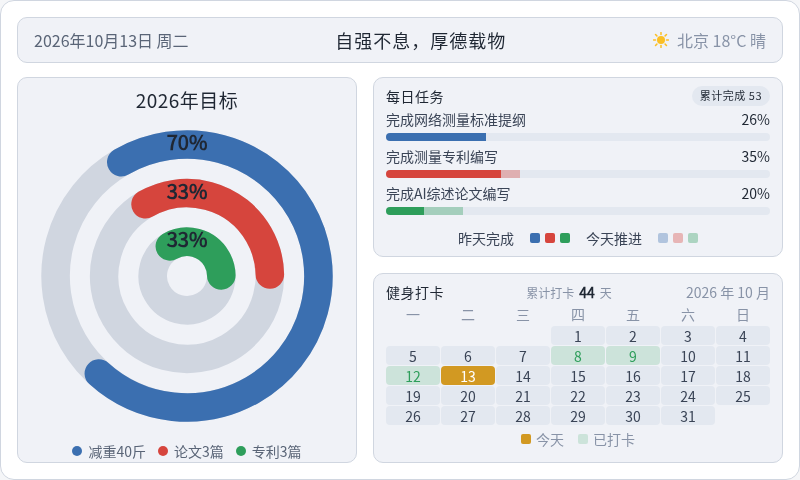
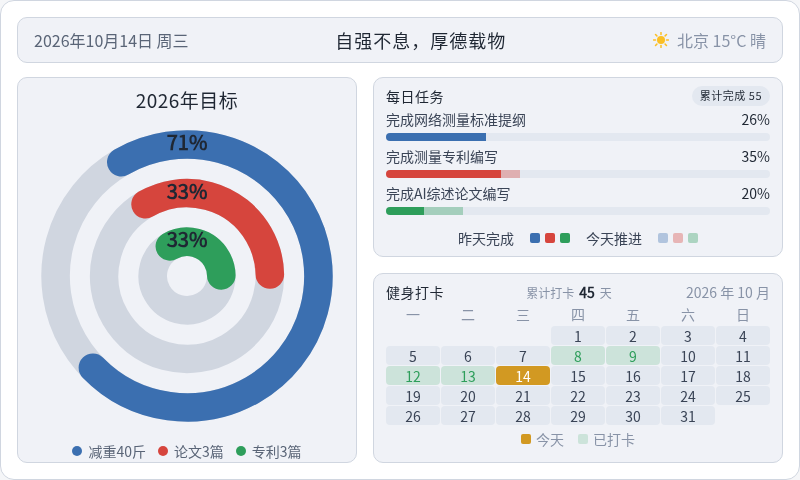
chore: 每日看板刷新 2026-10-14

diff --git a/output/dashboard/dashboard.html b/output/dashboard/dashboard.html
@@ -185,11 +185,11 @@
 <body>
   <div class="dash">
     <div class="topbar">
-      <div class="tb-date" id="tbDate">2026年10月13日 周二</div>
+      <div class="tb-date" id="tbDate">2026年10月14日 周三</div>
       <div class="tb-slogan">自强不息，厚德载物</div>
       <div class="tb-weather">
         <svg width="16" height="16" viewBox="0 0 16 16" aria-hidden="true"><circle cx="8" cy="8" r="4" fill="#fbbf24"/><g stroke="#fbbf24" stroke-width="1.5" stroke-linecap="round"><line x1="8" y1="0.5" x2="8" y2="2.5"/><line x1="8" y1="13.5" x2="8" y2="15.5"/><line x1="0.5" y1="8" x2="2.5" y2="8"/><line x1="13.5" y1="8" x2="15.5" y2="8"/><line x1="2.5" y1="2.5" x2="3.9" y2="3.9"/><line x1="12.1" y1="12.1" x2="13.5" y2="13.5"/><line x1="13.5" y1="2.5" x2="12.1" y2="3.9"/><line x1="3.9" y1="12.1" x2="2.5" y2="13.5"/></g></svg>
-        <span>北京 18°C 晴</span>
+        <span>北京 15°C 晴</span>
       </div>
     </div>
     <div class="content">
@@ -200,9 +200,9 @@
           <svg viewBox="0 0 210 210" width="300" height="300" role="img" aria-label="三环进度仪表盘">
             <title>2026年目标三环进度</title>
             <g transform="rotate(-120 105 105)">
-              <circle cx="105" cy="105" r="92" fill="none" stroke="#d0d6e0" stroke-width="20"/><circle cx="105" cy="105" r="92" fill="none" stroke="#3b6fb0" stroke-width="20" stroke-linecap="round" stroke-dasharray="404.64 578.05"/><circle cx="105" cy="105" r="58" fill="none" stroke="#d0d6e0" stroke-width="20"/><circle cx="105" cy="105" r="58" fill="none" stroke="#d6453d" stroke-width="20" stroke-linecap="round" stroke-dasharray="120.26 364.42"/><circle cx="105" cy="105" r="24" fill="none" stroke="#d0d6e0" stroke-width="20"/><circle cx="105" cy="105" r="24" fill="none" stroke="#2e9e5b" stroke-width="20" stroke-linecap="round" stroke-dasharray="49.76 150.80"/>
+              <circle cx="105" cy="105" r="92" fill="none" stroke="#d0d6e0" stroke-width="20"/><circle cx="105" cy="105" r="92" fill="none" stroke="#3b6fb0" stroke-width="20" stroke-linecap="round" stroke-dasharray="410.42 578.05"/><circle cx="105" cy="105" r="58" fill="none" stroke="#d0d6e0" stroke-width="20"/><circle cx="105" cy="105" r="58" fill="none" stroke="#d6453d" stroke-width="20" stroke-linecap="round" stroke-dasharray="120.26 364.42"/><circle cx="105" cy="105" r="24" fill="none" stroke="#d0d6e0" stroke-width="20"/><circle cx="105" cy="105" r="24" fill="none" stroke="#2e9e5b" stroke-width="20" stroke-linecap="round" stroke-dasharray="49.76 150.80"/>
             </g>
-            <text x="105" y="13" text-anchor="middle" dominant-baseline="middle" fill="#1f2733" font-size="14" font-weight="700">70%</text><text x="105" y="47" text-anchor="middle" dominant-baseline="middle" fill="#1f2733" font-size="14" font-weight="700">33%</text><text x="105" y="81" text-anchor="middle" dominant-baseline="middle" fill="#1f2733" font-size="14" font-weight="700">33%</text>
+            <text x="105" y="13" text-anchor="middle" dominant-baseline="middle" fill="#1f2733" font-size="14" font-weight="700">71%</text><text x="105" y="47" text-anchor="middle" dominant-baseline="middle" fill="#1f2733" font-size="14" font-weight="700">33%</text><text x="105" y="81" text-anchor="middle" dominant-baseline="middle" fill="#1f2733" font-size="14" font-weight="700">33%</text>
           </svg>
         </div>
         <div class="legend"><div class="legend-row"><span class="dot" style="background:#3b6fb0"></span><span class="lg-name">减重40斤</span></div><div class="legend-row"><span class="dot" style="background:#d6453d"></span><span class="lg-name">论文3篇</span></div><div class="legend-row"><span class="dot" style="background:#2e9e5b"></span><span class="lg-name">专利3篇</span></div></div>
@@ -210,7 +210,7 @@
     </div>
     <div class="col-right">
       <div class="panel tasks-panel">
-        <div class="panel-title" style="color:#1f2733">每日任务<span class="task-done-count">累计完成  53</span></div>
+        <div class="panel-title" style="color:#1f2733">每日任务<span class="task-done-count">累计完成  55</span></div>
         <div class="task">
           <div class="task-head"><span style="color:#3a4456">完成网络测量标准提纲</span><span class="task-val" style="color:#1f2733">26%</span></div>
           <div class="bar">
@@ -242,13 +242,13 @@
           <span class="panel-title" style="margin:0;color:#1f2733">健身打卡</span>
           <span class="cal-stats">
             <span class="cal-stats-label">累计打卡</span>
-            <span class="cal-stats-num" style="color:#1f2733">44</span>
+            <span class="cal-stats-num" style="color:#1f2733">45</span>
             <span class="cal-stats-label">天</span>
           </span>
           <span class="cal-date">2026 年 10 月</span>
         </div>
         <div class="cal-grid wk"><span>一</span><span>二</span><span>三</span><span>四</span><span>五</span><span>六</span><span>日</span></div>
-        <div class="cal-grid"><span class="cell empty"></span><span class="cell empty"></span><span class="cell empty"></span><span class="cell" style="background:#e3e8f0;color:#3a4456">1</span><span class="cell" style="background:#e3e8f0;color:#3a4456">2</span><span class="cell" style="background:#e3e8f0;color:#3a4456">3</span><span class="cell" style="background:#e3e8f0;color:#3a4456">4</span><span class="cell" style="background:#e3e8f0;color:#3a4456">5</span><span class="cell" style="background:#e3e8f0;color:#3a4456">6</span><span class="cell" style="background:#e3e8f0;color:#3a4456">7</span><span class="cell done" style="background:rgba(46,158,91,0.18);color:#2e9e5b">8</span><span class="cell done" style="background:rgba(46,158,91,0.18);color:#2e9e5b">9</span><span class="cell" style="background:#e3e8f0;color:#3a4456">10</span><span class="cell" style="background:#e3e8f0;color:#3a4456">11</span><span class="cell done" style="background:rgba(46,158,91,0.18);color:#2e9e5b">12</span><span class="cell today" style="background:#d29922;color:#ffffff">13</span><span class="cell" style="background:#e3e8f0;color:#3a4456">14</span><span class="cell" style="background:#e3e8f0;color:#3a4456">15</span><span class="cell" style="background:#e3e8f0;color:#3a4456">16</span><span class="cell" style="background:#e3e8f0;color:#3a4456">17</span><span class="cell" style="background:#e3e8f0;color:#3a4456">18</span><span class="cell" style="background:#e3e8f0;color:#3a4456">19</span><span class="cell" style="background:#e3e8f0;color:#3a4456">20</span><span class="cell" style="background:#e3e8f0;color:#3a4456">21</span><span class="cell" style="background:#e3e8f0;color:#3a4456">22</span><span class="cell" style="background:#e3e8f0;color:#3a4456">23</span><span class="cell" style="background:#e3e8f0;color:#3a4456">24</span><span class="cell" style="background:#e3e8f0;color:#3a4456">25</span><span class="cell" style="background:#e3e8f0;color:#3a4456">26</span><span class="cell" style="background:#e3e8f0;color:#3a4456">27</span><span class="cell" style="background:#e3e8f0;color:#3a4456">28</span><span class="cell" style="background:#e3e8f0;color:#3a4456">29</span><span class="cell" style="background:#e3e8f0;color:#3a4456">30</span><span class="cell" style="background:#e3e8f0;color:#3a4456">31</span></div>
+        <div class="cal-grid"><span class="cell empty"></span><span class="cell empty"></span><span class="cell empty"></span><span class="cell" style="background:#e3e8f0;color:#3a4456">1</span><span class="cell" style="background:#e3e8f0;color:#3a4456">2</span><span class="cell" style="background:#e3e8f0;color:#3a4456">3</span><span class="cell" style="background:#e3e8f0;color:#3a4456">4</span><span class="cell" style="background:#e3e8f0;color:#3a4456">5</span><span class="cell" style="background:#e3e8f0;color:#3a4456">6</span><span class="cell" style="background:#e3e8f0;color:#3a4456">7</span><span class="cell done" style="background:rgba(46,158,91,0.18);color:#2e9e5b">8</span><span class="cell done" style="background:rgba(46,158,91,0.18);color:#2e9e5b">9</span><span class="cell" style="background:#e3e8f0;color:#3a4456">10</span><span class="cell" style="background:#e3e8f0;color:#3a4456">11</span><span class="cell done" style="background:rgba(46,158,91,0.18);color:#2e9e5b">12</span><span class="cell done" style="background:rgba(46,158,91,0.18);color:#2e9e5b">13</span><span class="cell today" style="background:#d29922;color:#ffffff">14</span><span class="cell" style="background:#e3e8f0;color:#3a4456">15</span><span class="cell" style="background:#e3e8f0;color:#3a4456">16</span><span class="cell" style="background:#e3e8f0;color:#3a4456">17</span><span class="cell" style="background:#e3e8f0;color:#3a4456">18</span><span class="cell" style="background:#e3e8f0;color:#3a4456">19</span><span class="cell" style="background:#e3e8f0;color:#3a4456">20</span><span class="cell" style="background:#e3e8f0;color:#3a4456">21</span><span class="cell" style="background:#e3e8f0;color:#3a4456">22</span><span class="cell" style="background:#e3e8f0;color:#3a4456">23</span><span class="cell" style="background:#e3e8f0;color:#3a4456">24</span><span class="cell" style="background:#e3e8f0;color:#3a4456">25</span><span class="cell" style="background:#e3e8f0;color:#3a4456">26</span><span class="cell" style="background:#e3e8f0;color:#3a4456">27</span><span class="cell" style="background:#e3e8f0;color:#3a4456">28</span><span class="cell" style="background:#e3e8f0;color:#3a4456">29</span><span class="cell" style="background:#e3e8f0;color:#3a4456">30</span><span class="cell" style="background:#e3e8f0;color:#3a4456">31</span></div>
         <div class="cal-legend">
           <span style="color:#8893a7"><i class="sw" style="background:#d29922"></i>今天</span>
           <span style="color:#8893a7"><i class="sw" style="background:rgba(46,158,91,0.18)"></i>已打卡</span>
